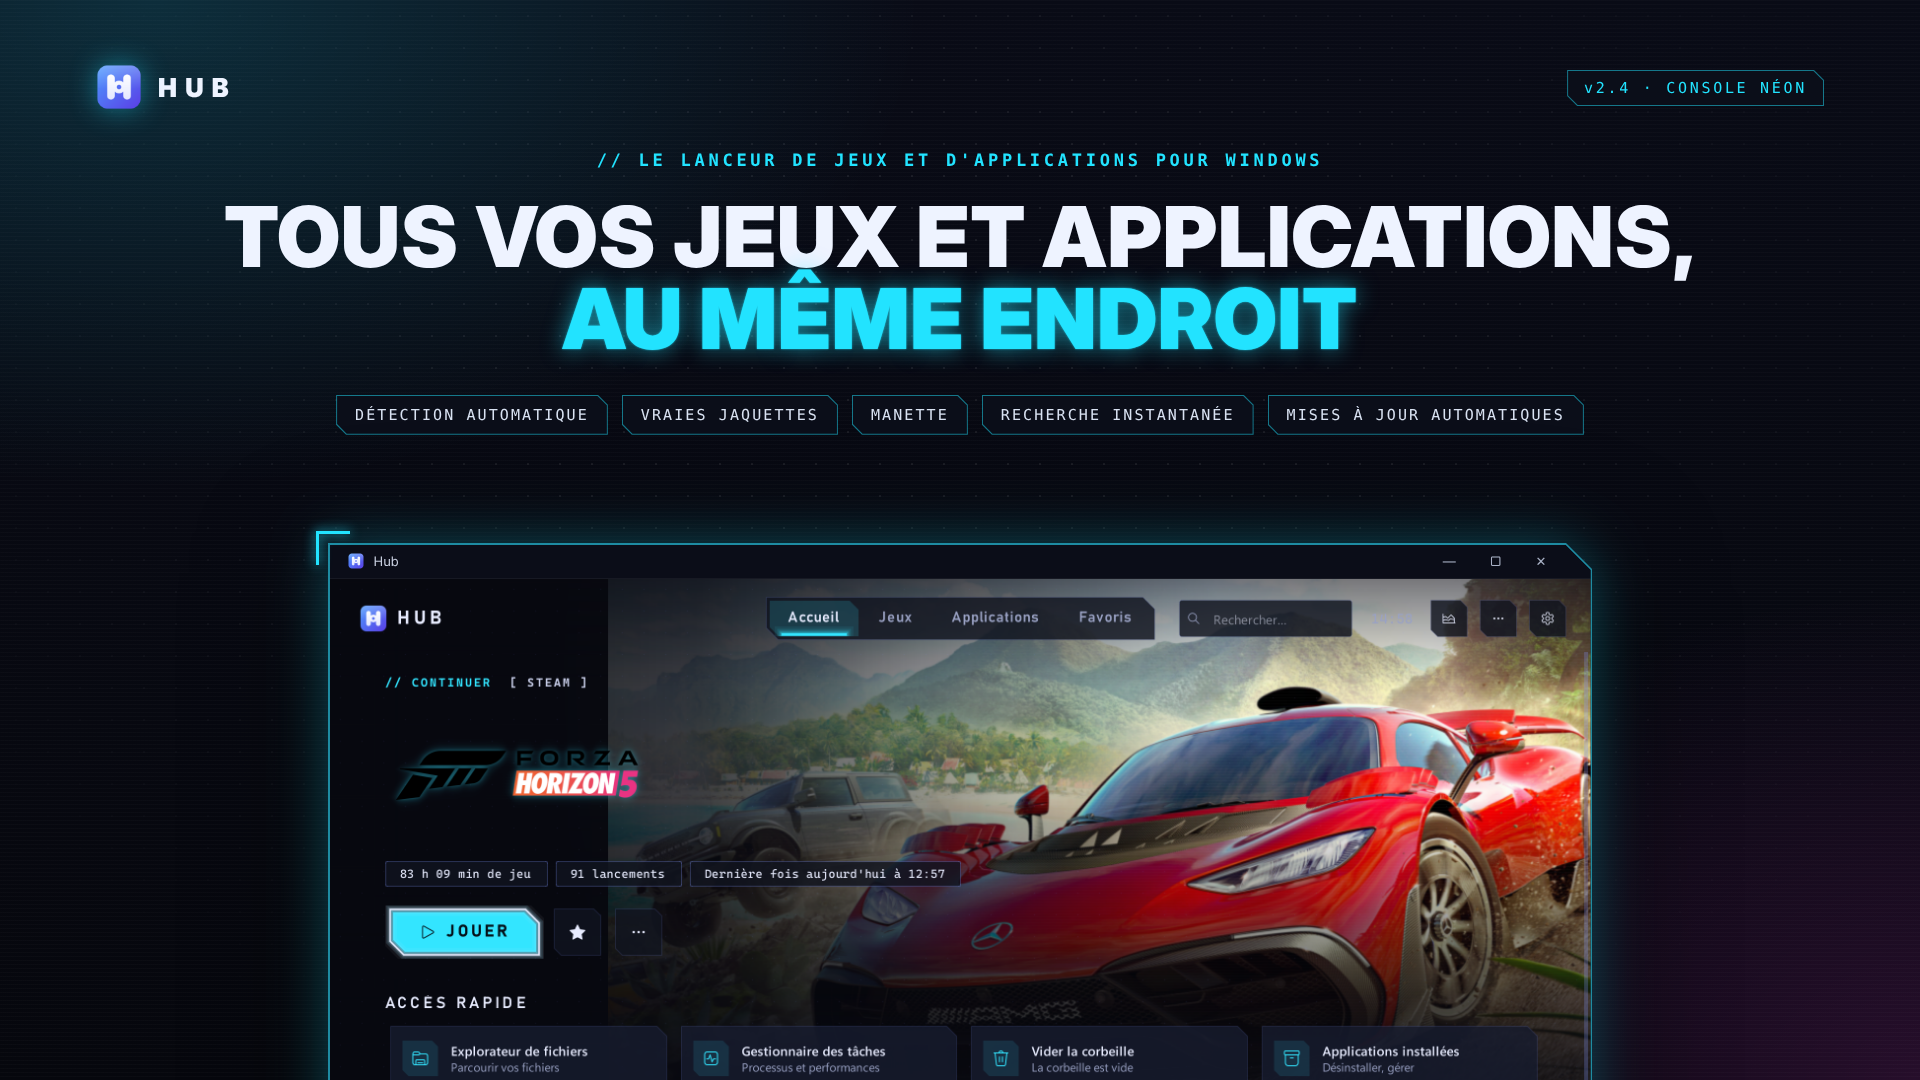
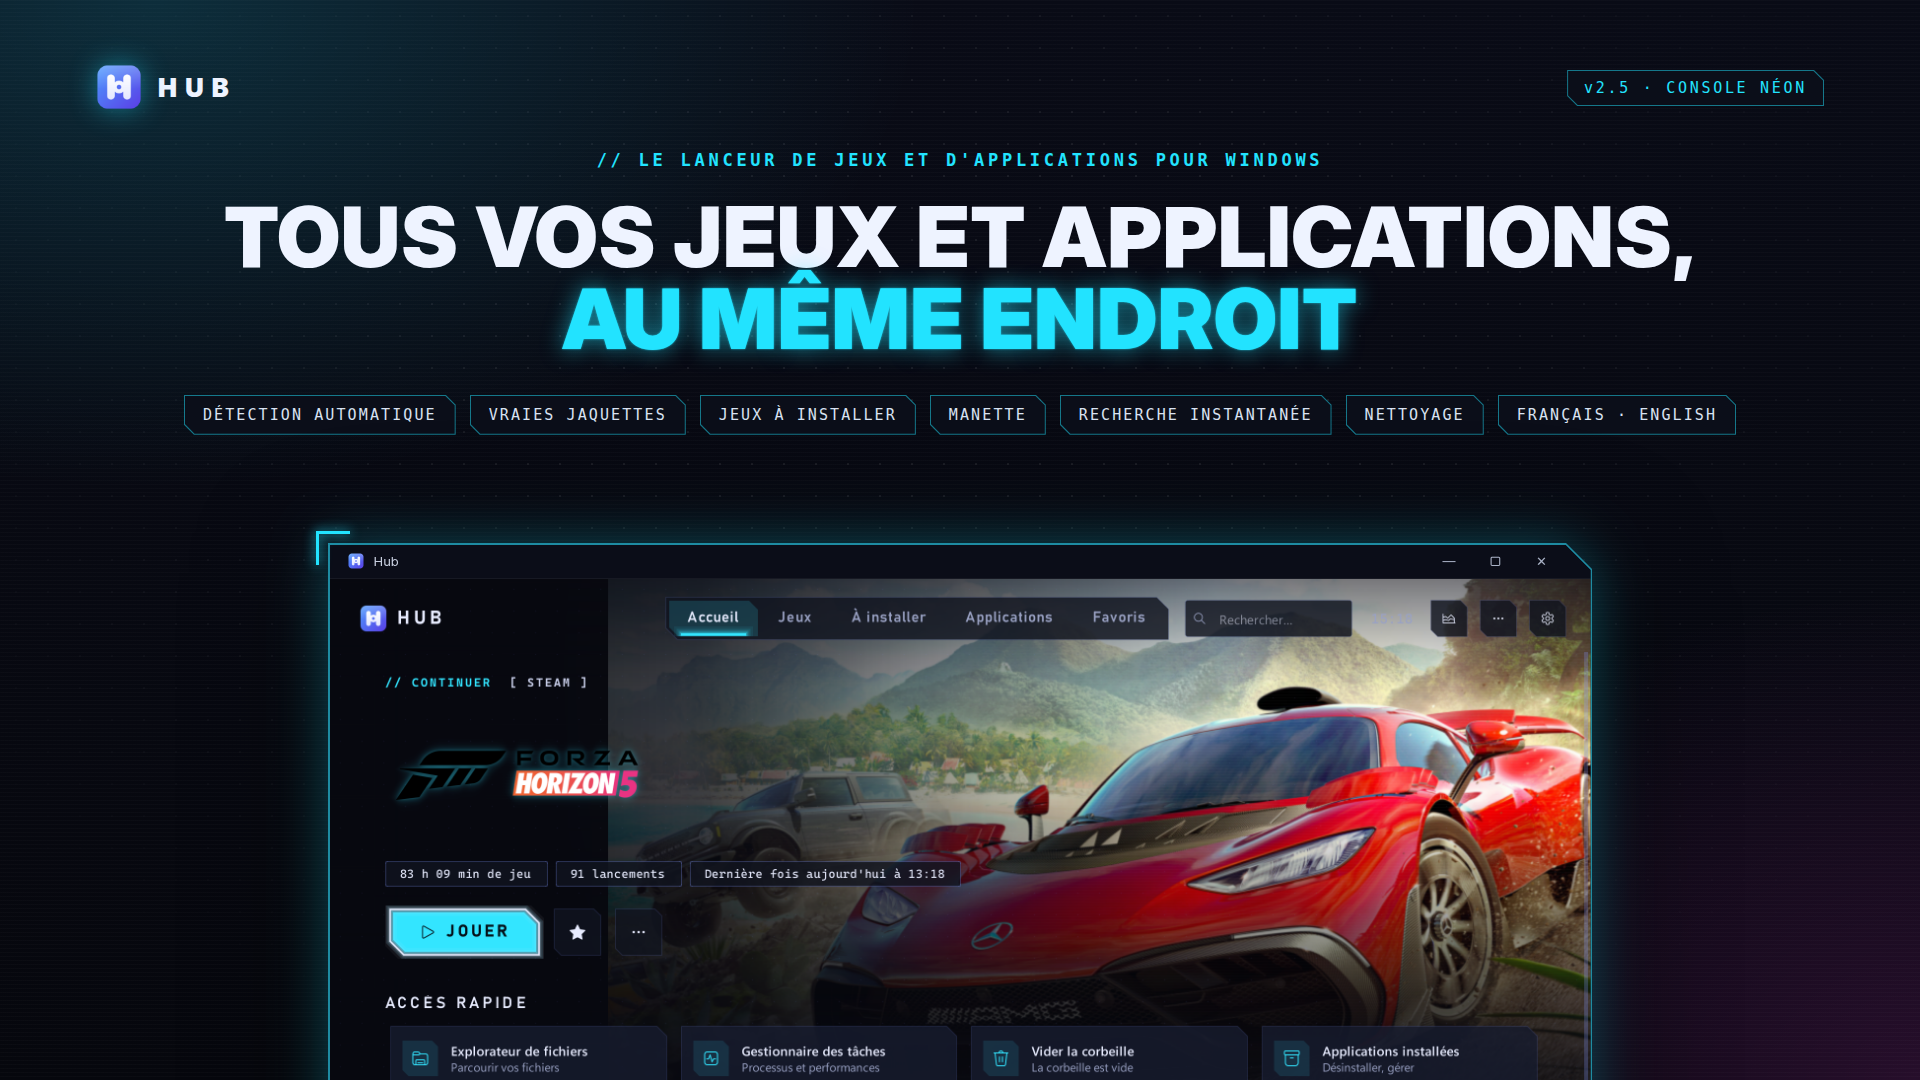
Visuels et fonctionnalités : Hub 2.5.0 (jeux à installer, nettoyage, anglais)

diff --git a/README.md b/README.md
@@ -22,6 +22,9 @@
 - **Détection automatique** des applications installées : menu Démarrer, Microsoft Store, Steam, Epic Games,
   GOG, Ubisoft Connect, Battle.net, EA app, Riot, Heroic, Playnite, et les programmes sans raccourci
   présents sur tous les disques.
+- **Jeux à installer** : un onglet à part pour les jeux de vos bibliothèques Steam et Epic Games qui ne sont
+  pas installés, avec leur jaquette ; un clic ouvre leur installation.
+- **Temps de jeu Steam** repris automatiquement : le bon jeu est mis en avant dès le premier lancement.
 - **Manette Xbox** : le Hub se pilote entièrement à la manette, comme une console.
 - **Recherche instantanée** : initiales, fautes de frappe, calculatrice, paramètres Windows, recherche web.
 - **Accueil** avec accès rapide à l'Explorateur, au Gestionnaire des tâches, à la corbeille et aux
@@ -29,21 +32,27 @@
 - **Statistiques** du temps réellement passé dans chaque jeu et application (données conservées sur votre PC).
 - **Couleur d'accent** au choix (néon cyan, magenta, braise, améthyste, menthe, couleur de la jaquette ou de
   Windows) ; favoris, catégories, applications masquées.
+- **Nettoyage** : récupérez la place laissée par les jeux désinstallés (dossiers mis à la corbeille) et rangez
+  les raccourcis cassés du menu Démarrer.
 - **Ranger le bureau** : les raccourcis des applications trouvées quittent le bureau, gardés en sauvegarde
   et remis en place en un clic.
-- **Raccourci global**, icône de notification, démarrage avec Windows et **mises à jour automatiques**.
+- **Raccourci global**, icône de notification, démarrage avec Windows et **mises à jour automatiques**, avec
+  les nouveautés présentées après chaque mise à jour.
+- **Français ou anglais**, selon la langue de Windows (Hub is also available in English).
 
 ## Aperçu
 
 ![Accueil et accès rapide](images/02-accueil.png)
 ![Tous vos jeux réunis](images/03-jeux.png)
-![À la manette](images/04-manette.png)
-![Recherche instantanée](images/05-recherche.png)
-![Personnalisation](images/06-personnalisation.png)
-![Couleurs d'accent](images/07-couleurs.png)
-![Statistiques d'utilisation](images/08-statistiques.png)
-![Ranger le bureau](images/09-bureau.png)
-![Toujours prêt](images/10-toujours-pret.png)
+![Jeux à installer](images/04-a-installer.png)
+![À la manette](images/05-manette.png)
+![Recherche instantanée](images/06-recherche.png)
+![Personnalisation](images/07-personnalisation.png)
+![Couleurs d'accent](images/08-couleurs.png)
+![Statistiques d'utilisation](images/09-statistiques.png)
+![Nettoyage](images/10-nettoyage.png)
+![Ranger le bureau](images/11-bureau.png)
+![Toujours prêt](images/12-toujours-pret.png)
 
 ## Installation
 
